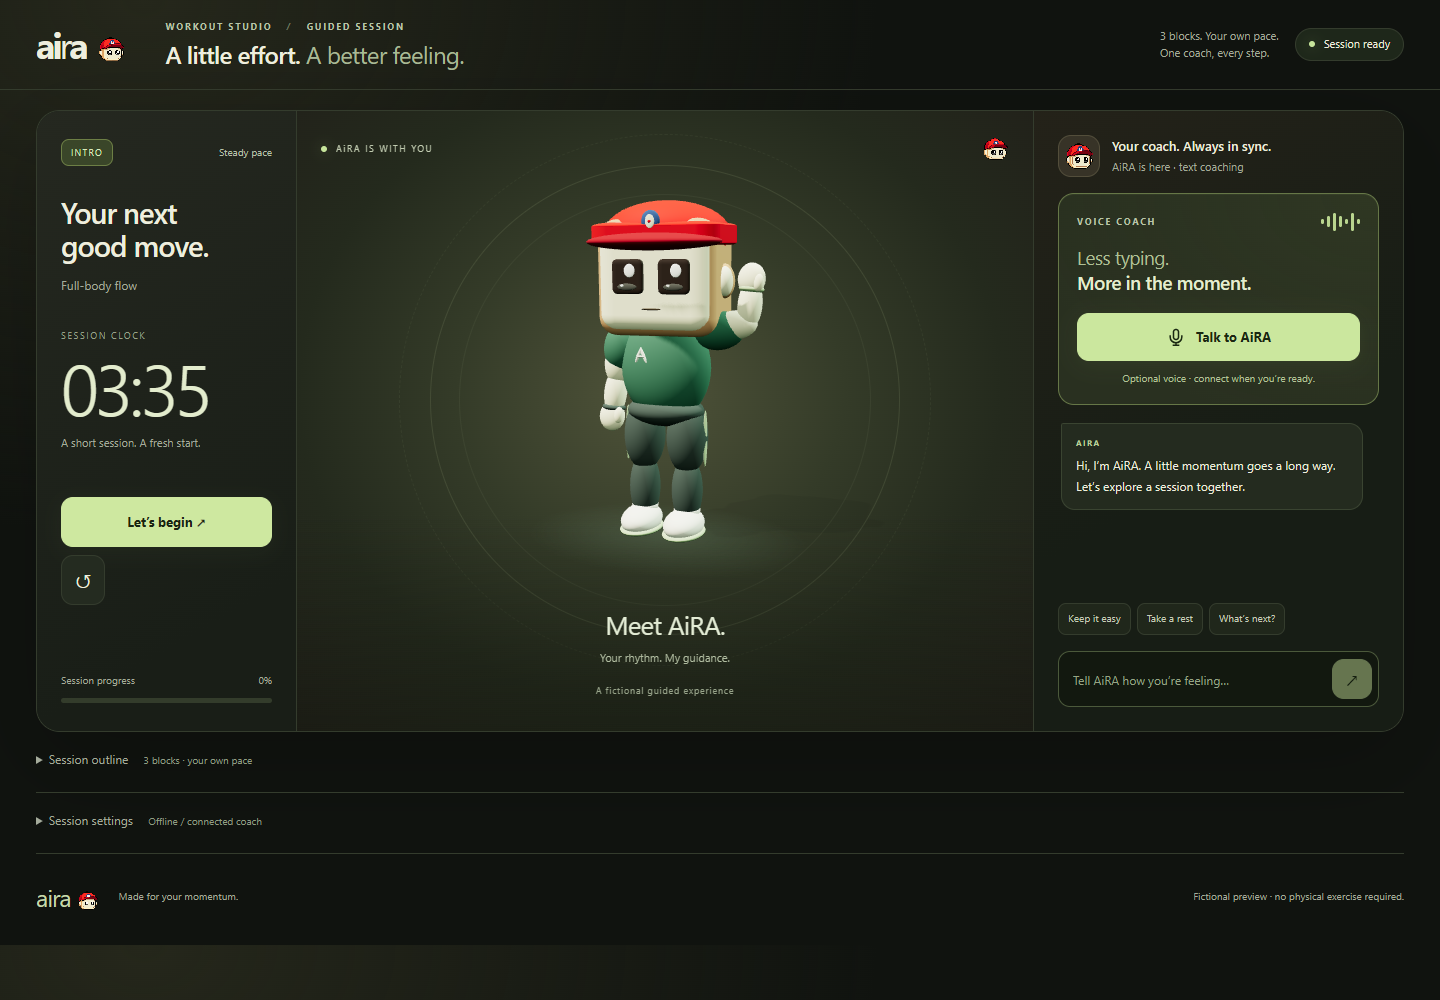
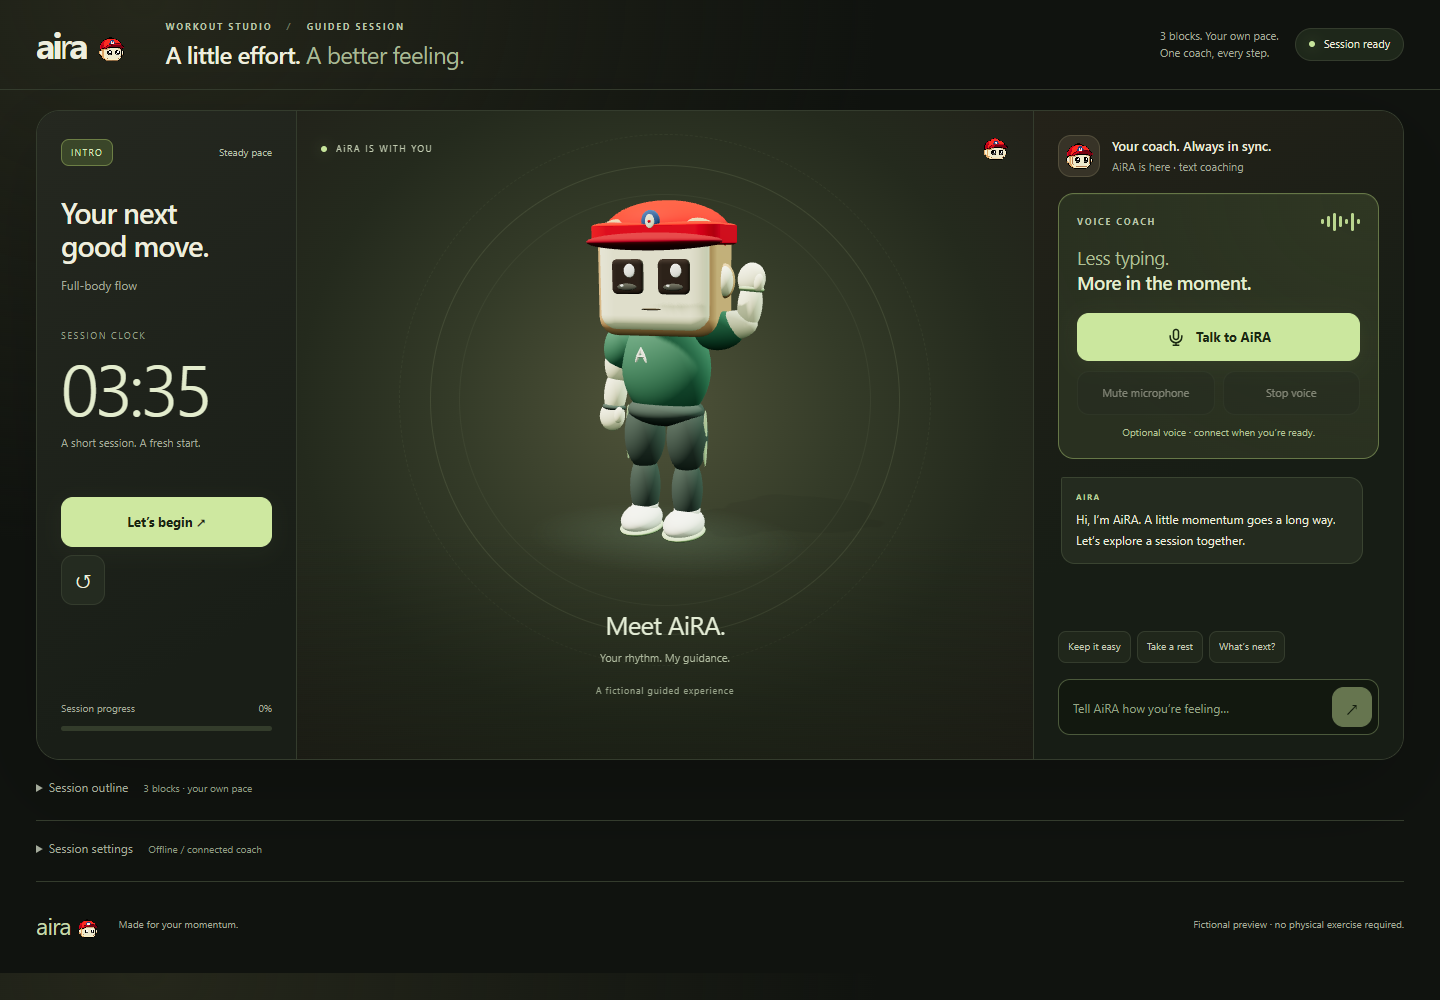
Phase 1 MVP: keep mute and stop in the voice coach box

diff --git a/src/web/index.html b/src/web/index.html
@@ -18,12 +18,12 @@
 <div id="session-progress"></div>
 </div>
 <div class="trainer-stage"><div class="trainer-topline"><span class="live-dot"></span><span>AiRA IS WITH YOU</span><span class="trainer-symbol"><img class="mascot-sticker" src="/web/assets/aira-sticker.png" width="28" height="28" alt="" aria-hidden="true"></span></div><div class="trainer-orbit"></div><div id="trainer-mount"></div><div class="trainer-signature"><span id="trainer-name" class="trainer-name">Meet AiRA.</span><span>Your rhythm. My guidance.</span></div><span class="stage-caption">A fictional guided experience</span></div>
-<aside class="interaction-panel" aria-label="Coach conversation"><section class="coach-bar" aria-label="Talk to AiRA"><div class="coach-identity"><span class="coach-avatar"><img class="mascot-sticker" src="/web/assets/aira-sticker.png" width="28" height="28" alt="" aria-hidden="true"></span><div><h2>Your coach. Always in sync.</h2><p id="coach-runtime" role="status">AiRA is here · text coaching</p></div></div><div class="voice-spotlight"><div class="voice-spotlight-top"><span class="eyebrow">VOICE COACH</span><span class="voice-wave" aria-hidden="true"><i></i><i></i><i></i><i></i><i></i><i></i><i></i></span></div><p>Less typing.<br><strong>More in the moment.</strong></p><button id="session-voice" class="voice-button" aria-label="Open voice coach" aria-expanded="false" aria-controls="voice-panel"><span class="voice-icon" aria-hidden="true"><svg viewBox="0 0 24 24" width="20" height="20" fill="none" stroke="currentColor" stroke-width="1.8"><rect x="9" y="3" width="6" height="12" rx="3"/><path d="M5 10v2a7 7 0 0 0 14 0v-2M12 19v3M8 22h8"/></svg></span> <span id="session-voice-label">Talk to AiRA</span></button><span id="voice-entry-note" class="voice-helper">Optional voice · text is always ready.</span></div><div id="coach-history" class="coach-history" role="log" aria-label="Workout conversation" aria-live="polite" aria-relevant="additions text"></div><div class="coach-shortcuts" aria-label="Quick coach requests"><button type="button" data-coach-message="Make the next one easier">Keep it easy</button><button type="button" data-coach-message="I need a recovery">Take a rest</button><button type="button" data-coach-message="What comes next?">What’s next?</button></div><form id="coach-composer"><label class="sr-only" for="coach-input">Message AiRA</label><input id="coach-input" maxlength="2000" placeholder="Tell AiRA how you’re feeling…" autocomplete="off"><button id="coach-send" type="submit" aria-label="Send message to AiRA" disabled>↗</button></form><button id="coach-cancel" hidden>Cancel reply</button><button id="coach-retry" hidden>Retry reply</button><p id="last-coach-input" class="last-input" aria-live="polite"></p><p id="coach-feedback" class="voice-note" role="alert" hidden></p></section>
+<aside class="interaction-panel" aria-label="Coach conversation"><section class="coach-bar" aria-label="Talk to AiRA"><div class="coach-identity"><span class="coach-avatar"><img class="mascot-sticker" src="/web/assets/aira-sticker.png" width="28" height="28" alt="" aria-hidden="true"></span><div><h2>Your coach. Always in sync.</h2><p id="coach-runtime" role="status">AiRA is here · text coaching</p></div></div><div class="voice-spotlight"><div class="voice-spotlight-top"><span class="eyebrow">VOICE COACH</span><span class="voice-wave" aria-hidden="true"><i></i><i></i><i></i><i></i><i></i><i></i><i></i></span></div><p>Less typing.<br><strong>More in the moment.</strong></p><div class="voice-dock"><button id="session-voice" class="voice-button" aria-label="Open voice coach" aria-expanded="false" aria-controls="voice-panel"><span class="voice-icon" aria-hidden="true"><svg viewBox="0 0 24 24" width="20" height="20" fill="none" stroke="currentColor" stroke-width="1.8"><rect x="9" y="3" width="6" height="12" rx="3"/><path d="M5 10v2a7 7 0 0 0 14 0v-2M12 19v3M8 22h8"/></svg></span> <span id="session-voice-label">Talk to AiRA</span></button><div class="voice-quick-actions"><button id="voice-mute" aria-pressed="false" disabled>Mute microphone</button><button id="voice-stop" disabled>Stop voice</button><button id="voice-play" hidden>Enable coach audio</button></div></div><span id="voice-entry-note" class="voice-helper">Optional voice · text is always ready.</span></div><div id="coach-history" class="coach-history" role="log" aria-label="Workout conversation" aria-live="polite" aria-relevant="additions text"></div><div class="coach-shortcuts" aria-label="Quick coach requests"><button type="button" data-coach-message="Make the next one easier">Keep it easy</button><button type="button" data-coach-message="I need a recovery">Take a rest</button><button type="button" data-coach-message="What comes next?">What’s next?</button></div><form id="coach-composer"><label class="sr-only" for="coach-input">Message AiRA</label><input id="coach-input" maxlength="2000" placeholder="Tell AiRA how you’re feeling…" autocomplete="off"><button id="coach-send" type="submit" aria-label="Send message to AiRA" disabled>↗</button></form><button id="coach-cancel" hidden>Cancel reply</button><button id="coach-retry" hidden>Retry reply</button><p id="last-coach-input" class="last-input" aria-live="polite"></p><p id="coach-feedback" class="voice-note" role="alert" hidden></p></section>
 <section id="voice-panel" class="voice-panel" aria-label="Optional voice coach" data-state="idle" hidden>
 <div class="voice-heading"><div><p class="eyebrow">TALK, MOVE, STAY IN SYNC</p><h2>Connect your voice.</h2></div><span id="voice-status" class="voice-state" role="status" tabindex="-1">Microphone off</span></div>
 <p id="voice-note" class="micro">Checking local voice setup. Text coaching is always available.</p>
 <label class="voice-consent"><input type="checkbox" id="voice-consent"> I agree to send microphone audio and workout context to Google and use my API budget.</label>
-<div class="voice-controls"><button id="voice-connect" class="primary" disabled>Talk to AiRA</button><button id="voice-mute" aria-pressed="false" disabled>Mute microphone</button><button id="voice-stop" disabled>Stop voice</button><button id="voice-play" hidden>Enable coach audio</button></div>
+<div class="voice-controls"><button id="voice-connect" class="primary" disabled>Talk to AiRA</button></div>
 <p id="voice-error" role="alert" hidden></p><details class="voice-transcript-details"><summary>Conversation transcript</summary><p id="voice-empty" class="micro">Your conversation will appear here when you talk to AiRA.</p><div id="voice-transcript" class="voice-transcript" role="log" aria-label="Voice transcript" aria-live="polite"></div></details>
 <p class="micro">Speak naturally. Interrupt whenever you need to. You can also type in the message box. Transcripts stay in this page and are excluded from run exports.</p>
 </section>

diff --git a/src/web/styles.css b/src/web/styles.css
@@ -12,4 +12,6 @@
 @media(prefers-reduced-motion:reduce){*,*:before,*:after{animation:none!important;transition:none!important;scroll-behavior:auto!important}}
 
 /* Keep voice in thumb reach on mobile; release the dock while composing text. */
-@media(max-width:620px){body{padding-bottom:80px}.voice-button{position:fixed;bottom:max(16px,env(safe-area-inset-bottom));left:16px;width:calc(100% - 32px);z-index:12;margin:0;border-radius:14px;box-shadow:0 8px 35px #0009,0 0 0 6px #10130fe0}.voice-spotlight .voice-helper{margin-top:14px}body:has(#coach-input:focus) .voice-button{position:static;width:100%;margin-top:15px;box-shadow:0 4px 22px #aaca6c12}}
+@media(max-width:620px){body{padding-bottom:138px}.voice-dock{position:fixed;bottom:max(16px,env(safe-area-inset-bottom));left:16px;width:calc(100% - 32px);z-index:12;margin:0;border-radius:14px;background:#10130f;padding:6px;box-shadow:0 8px 35px #0009,0 0 0 6px #10130fe0}.voice-dock .voice-button{margin:0}.voice-spotlight .voice-helper{margin-top:14px}body:has(#coach-input:focus) .voice-dock{position:static;width:100%;margin-top:15px;box-shadow:0 4px 22px #aaca6c12}}
+
+.voice-quick-actions{display:flex;flex-wrap:wrap;gap:8px;margin-top:10px}.voice-quick-actions button{flex:1;font-size:11px;min-height:44px;padding:8px 10px}.voice-quick-actions #voice-play{flex-basis:100%}

diff --git a/src/web/gemini-live-client.ts b/src/web/gemini-live-client.ts
@@ -50,7 +50,9 @@ export class GeminiLiveCoach {
       byId('session-voice').setAttribute('aria-expanded', String(!panel.hidden));
       if (!panel.hidden) { byId('voice-status').focus(); panel.scrollIntoView({ block: 'nearest', behavior: matchMedia('(prefers-reduced-motion: reduce)').matches ? 'instant' : 'smooth' }); }
     });
-    byId('voice-panel').addEventListener('keydown', event => { if (event.key === 'Escape') { byId('voice-panel').hidden = true; byId('session-voice').setAttribute('aria-expanded', 'false'); byId('session-voice').focus(); } });
+    const closePanel = (event: KeyboardEvent) => { if (event.key === 'Escape') { byId('voice-panel').hidden = true; byId('session-voice').setAttribute('aria-expanded', 'false'); byId('session-voice').focus(); } };
+    byId('voice-panel').addEventListener('keydown', closePanel);
+    byId('voice-mute').closest('.voice-dock')?.addEventListener('keydown', event => closePanel(event as KeyboardEvent));
     byId('voice-connect').addEventListener('click', () => { void this.connect(); });
     byId('voice-stop').addEventListener('click', () => { this.disconnect(); byId('session-voice').focus(); });
     byId('voice-mute').addEventListener('click', event => {
